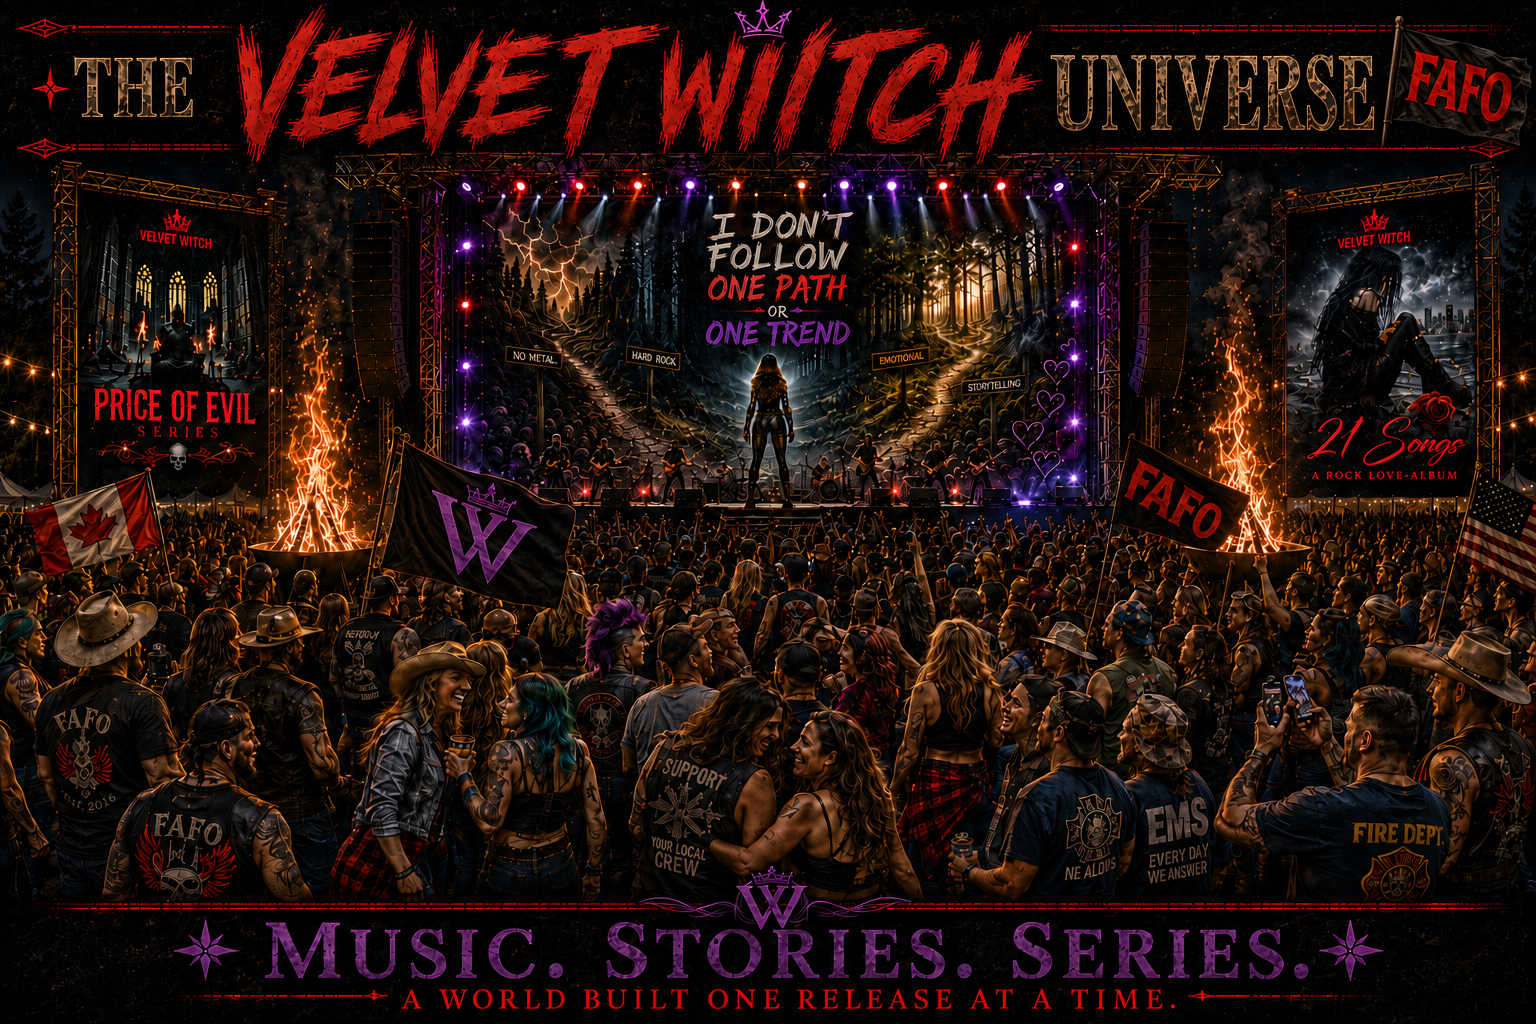
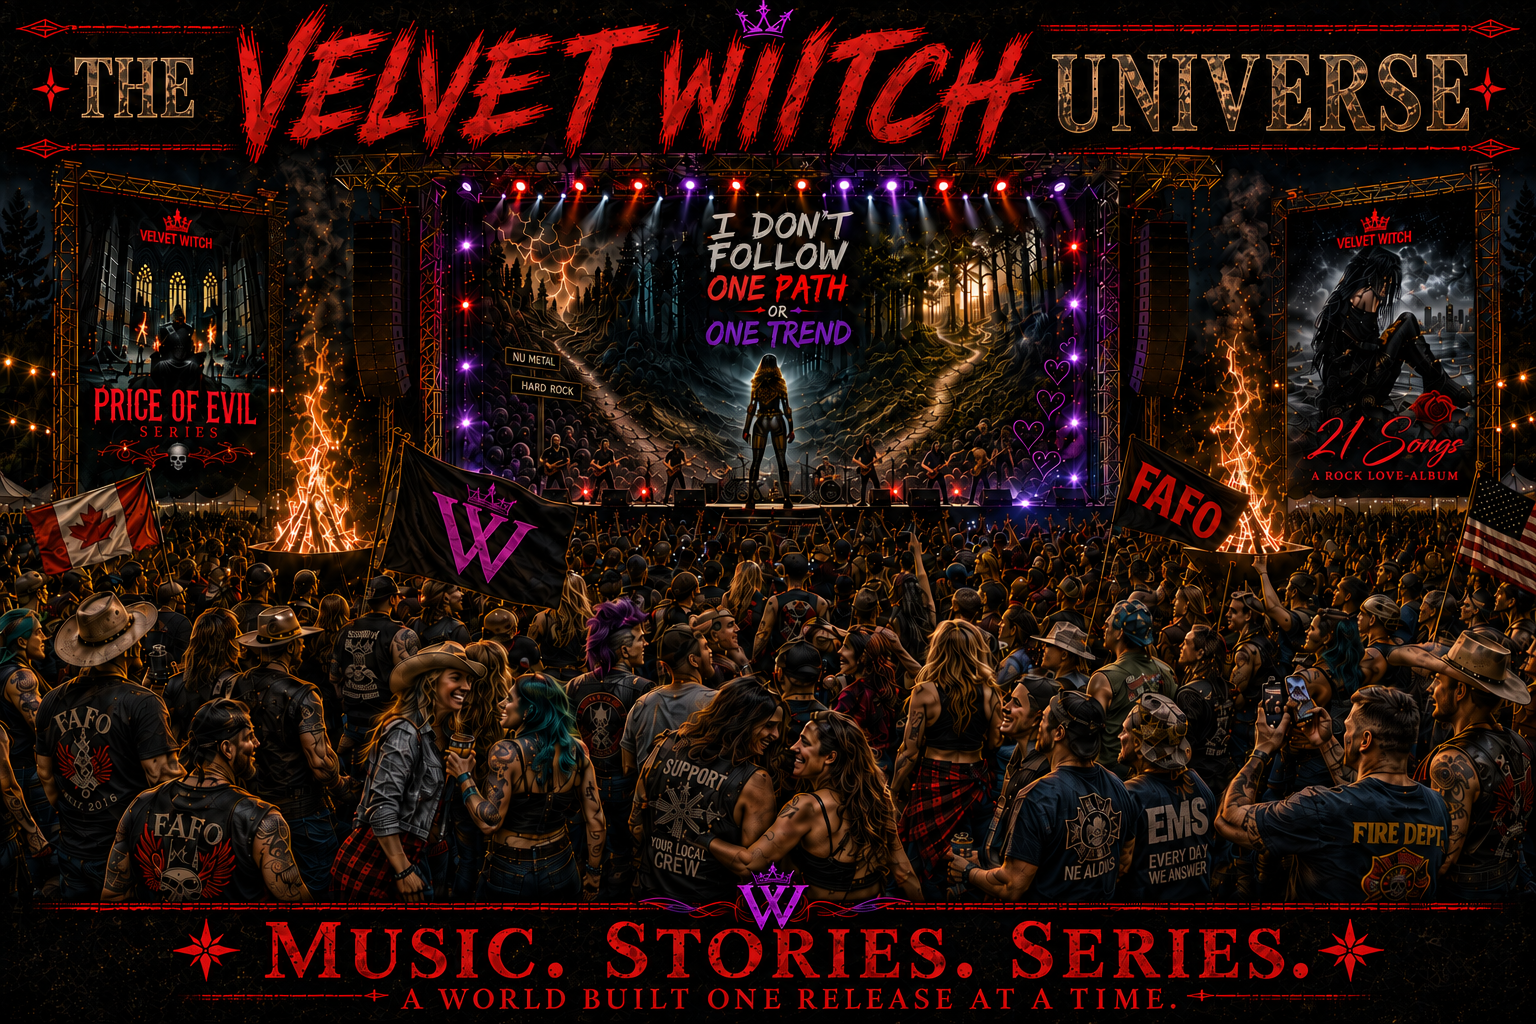
fix: correct Velvet Witch copy and colors

Changed region(s): [[0.0, 0.0, 1.0, 1.0], [0.0312, 0.0, 0.0625, 0.0312]]

diff --git a/app/media/featured-artist/page.tsx b/app/media/featured-artist/page.tsx
@@ -18,10 +18,10 @@ export default function FeaturedArtistPage() {
   const { destinations, artistStatement, projects, fafoConnection } = velvetWitchContent;
   const artwork = [bloodRush, wiresLoose, rockRange];
   return <main className="min-h-screen bg-[#090609] text-[#f8eef3]"><Header />
-    <section className="border-b border-[#b55a83]/30 bg-[#0e080d] px-5 py-8 sm:px-10 sm:py-12 lg:px-16" aria-labelledby="velvet-witch-title"><div className="mx-auto w-full max-w-7xl"><p className="mb-5 text-xs font-bold uppercase tracking-[0.34em] text-[#e691b2]">FAFO Nation featured artist</p><Artwork src={banner} alt="Velvet Witch Universe" priority /><div className="mt-8 grid gap-7 lg:grid-cols-[1.35fr_0.65fr] lg:items-end"><div><h1 id="velvet-witch-title" className="text-5xl font-black uppercase leading-[0.9] tracking-[-0.06em] text-white sm:text-7xl">The Velvet Witch <span className="text-[#e691b2]">Universe</span></h1><p className="mt-6 max-w-2xl text-lg leading-8 text-white/70 sm:text-xl">Music, stories, and a world built one release at a time—on her own terms.</p></div><div className="flex flex-wrap gap-3 lg:justify-end"><ExternalLink href={destinations.youtube}>Watch on YouTube</ExternalLink><ExternalLink href={destinations.spotify}>Listen on Spotify</ExternalLink></div></div></div></section>
-    <section className="px-5 py-16 sm:px-10 sm:py-24 lg:px-16" aria-labelledby="projects-heading"><div className="mx-auto w-full max-w-7xl"><p className="text-xs font-bold uppercase tracking-[0.28em] text-[#e691b2]">Listen into the story</p><h2 id="projects-heading" className="mt-4 text-4xl font-black uppercase tracking-[-0.04em] text-white sm:text-6xl">Projects become worlds.</h2><div className="mt-12 grid gap-8 lg:grid-cols-3">{projects.map((project, index) => <article key={project.title} className="flex flex-col border border-[#b55a83]/30 bg-[#160a14]"><Artwork src={artwork[index]} alt={`${project.title} by Velvet Witch`} /><div className="flex flex-1 flex-col p-7"><p className="text-[11px] font-bold uppercase tracking-[0.22em] text-[#e691b2]">{project.eyebrow}</p><h3 className="mt-5 text-2xl font-black uppercase text-white">{project.title}</h3><p className="mt-4 text-sm leading-7 text-white/65">{project.description}</p><div className="mt-auto pt-7"><ExternalLink href={project.href}>{project.linkLabel}</ExternalLink></div></div></article>)}</div></div></section>
-    <section className="border-y border-[#b55a83]/25 bg-[#160a14] px-5 py-16 sm:px-10 sm:py-24 lg:px-16" aria-labelledby="find-out-heading"><div className="mx-auto grid w-full max-w-7xl gap-10 lg:grid-cols-[0.8fr_1.2fr] lg:items-center"><Artwork src={findOut} alt="Find Out by Velvet Witch" /><div><p className="text-xs font-bold uppercase tracking-[0.28em] text-[#e691b2]">The FAFO connection</p><h2 id="find-out-heading" className="mt-4 text-4xl font-black uppercase tracking-[-0.04em] text-white sm:text-6xl">Find Out.</h2><p className="mt-6 text-lg leading-8 text-white/75">{fafoConnection}</p><div className="mt-8"><ExternalLink href="https://youtu.be/EJx1gqex2Uw?si=gsjI-B7oiAAybRcY">Watch Find Out</ExternalLink></div></div></div></section>
-    <section className="px-5 py-16 sm:px-10 sm:py-24 lg:px-16" aria-labelledby="artist-heading"><div className="mx-auto grid w-full max-w-7xl gap-10 lg:grid-cols-[0.7fr_1.3fr]"><div><p className="text-xs font-bold uppercase tracking-[0.28em] text-[#e691b2]">Artist / creative world</p><h2 id="artist-heading" className="mt-4 text-4xl font-black uppercase tracking-[-0.04em] text-white sm:text-6xl">Every word is hers.</h2></div><div className="space-y-6 text-base leading-8 text-white/70 sm:text-lg">{artistStatement.map((paragraph) => <p key={paragraph}>{paragraph}</p>)}</div></div></section>
-    <section className="border-y border-white/10 bg-[#0d080d] px-5 py-16 sm:px-10 sm:py-24 lg:px-16" aria-labelledby="support-heading"><div className="mx-auto grid w-full max-w-7xl gap-10 lg:grid-cols-2"><div><p className="text-xs font-bold uppercase tracking-[0.28em] text-[#e691b2]">Own / support the music</p><h2 id="support-heading" className="mt-4 text-4xl font-black uppercase tracking-[-0.04em] text-white sm:text-6xl">Take the story with you.</h2><p className="mt-5 max-w-xl text-base leading-8 text-white/65">Support the writing directly through official music downloads, or wear a piece of the universe through the live Velvet Witch store.</p></div><div className="flex flex-wrap content-center gap-3"><ExternalLink href={destinations.payhip}>Music downloads</ExternalLink><ExternalLink href={destinations.fourthwall}>Wear the universe</ExternalLink><ExternalLink href={destinations.youtube}>New releases</ExternalLink></div></div></section>
+    <section className="border-b border-[#b55a83]/30 bg-[#0e080d] px-5 py-8 sm:px-10 sm:py-12 lg:px-16" aria-labelledby="velvet-witch-title"><div className="mx-auto w-full max-w-7xl"><p className="mb-5 text-xs font-bold uppercase tracking-[0.34em] text-[#e691b2]">FAFO Nation featured artist</p><Artwork src={banner} alt="Velvet Witch Universe" priority /><div className="mt-8 grid gap-7 lg:grid-cols-[1.35fr_0.65fr] lg:items-end"><div><h1 id="velvet-witch-title" className="text-5xl font-black uppercase leading-[0.9] tracking-[-0.06em] text-white sm:text-7xl">The Velvet Witch <span className="text-[#e691b2]">Universe</span></h1><p className="mt-6 max-w-2xl text-lg leading-8 text-red-600 sm:text-xl">Music, Stories and a World built one release at a time—On her own terms.</p></div><div className="flex flex-wrap gap-3 lg:justify-end"><ExternalLink href={destinations.youtube}>Watch on YouTube</ExternalLink><ExternalLink href={destinations.spotify}>Listen on Spotify</ExternalLink></div></div></div></section>
+    <section className="px-5 py-16 sm:px-10 sm:py-24 lg:px-16" aria-labelledby="projects-heading"><div className="mx-auto w-full max-w-7xl"><p className="text-xs font-bold uppercase tracking-[0.28em] text-[#e691b2]">Listen into the story</p><h2 id="projects-heading" className="mt-4 text-4xl font-black uppercase tracking-[-0.04em] text-white sm:text-6xl">Projects become worlds.</h2><div className="mt-12 grid gap-8 lg:grid-cols-3">{projects.map((project, index) => <article key={project.title} className="flex flex-col border border-[#b55a83]/30 bg-[#160a14]"><Artwork src={artwork[index]} alt={`${project.title} by Velvet Witch`} /><div className="flex flex-1 flex-col p-7"><p className="text-[11px] font-bold uppercase tracking-[0.22em] text-[#e691b2]">{project.eyebrow}</p><h3 className="mt-5 text-2xl font-black uppercase text-[#D4AF37]">{project.title}</h3><p className="mt-4 text-sm leading-7 text-red-600">{project.description}</p><div className="mt-auto pt-7"><ExternalLink href={project.href}>{project.linkLabel}</ExternalLink></div></div></article>)}</div></div></section>
+    <section className="border-y border-[#b55a83]/25 bg-[#160a14] px-5 py-16 sm:px-10 sm:py-24 lg:px-16" aria-labelledby="find-out-heading"><div className="mx-auto grid w-full max-w-7xl gap-10 lg:grid-cols-[0.8fr_1.2fr] lg:items-center"><Artwork src={findOut} alt="Find Out by Velvet Witch" /><div><p className="text-xs font-bold uppercase tracking-[0.28em] text-[#e691b2]">The FAFO connection</p><h2 id="find-out-heading" className="mt-4 text-4xl font-black uppercase tracking-[-0.04em] text-[#D4AF37] sm:text-6xl">Find Out.</h2><p className="mt-6 text-lg leading-8 text-red-600">{fafoConnection}</p><div className="mt-8"><ExternalLink href="https://youtu.be/EJx1gqex2Uw?si=gsjI-B7oiAAybRcY">Watch Find Out</ExternalLink></div></div></div></section>
+    <section className="px-5 py-16 sm:px-10 sm:py-24 lg:px-16" aria-labelledby="artist-heading"><div className="mx-auto grid w-full max-w-7xl gap-10 lg:grid-cols-[0.7fr_1.3fr]"><div><p className="text-xs font-bold uppercase tracking-[0.28em] text-[#e691b2]">Artist / creative world</p><h2 id="artist-heading" className="mt-4 text-4xl font-black uppercase tracking-[-0.04em] text-[#D4AF37] sm:text-6xl">Every Word Is Hers</h2></div><div className="space-y-6 text-base leading-8 text-red-600 sm:text-lg">{artistStatement.map((paragraph) => <p key={paragraph}>{paragraph}</p>)}</div></div></section>
+    <section className="border-y border-white/10 bg-[#0d080d] px-5 py-16 sm:px-10 sm:py-24 lg:px-16" aria-labelledby="support-heading"><div className="mx-auto grid w-full max-w-7xl gap-10 lg:grid-cols-2"><div><p className="text-xs font-bold uppercase tracking-[0.28em] text-[#e691b2]">Own / support the music</p><h2 id="support-heading" className="mt-4 text-4xl font-black uppercase tracking-[-0.04em] text-[#D4AF37] sm:text-6xl">Take the Story With You</h2><p className="mt-5 max-w-xl text-base leading-8 text-red-600">Support the writing directly through official music downloads, or wear a piece of the universe through the live Velvet Witch store.</p></div><div className="flex flex-wrap content-center gap-3"><ExternalLink href={destinations.payhip}>Music downloads</ExternalLink><ExternalLink href={destinations.fourthwall}>Wear the universe</ExternalLink><ExternalLink href={destinations.youtube}>New releases</ExternalLink></div></div></section>
     <ContextualRightsFooter brand="Velvet Witch"><span>Presented within FAFO Nation.</span></ContextualRightsFooter></main>;
 }

diff --git a/app/media/featured-artist/_lib/velvetWitchContent.ts b/app/media/featured-artist/_lib/velvetWitchContent.ts
@@ -16,7 +16,7 @@ export const velvetWitchContent = {
   projects: [
     { title: "Blood Rush", eyebrow: "Featured release", description: "A release with no borrowed voice: direct, electric, and built from the inside out.", href: "https://youtu.be/p_X8d48nNAk?si=eSv2r-42d9eho4Ft", linkLabel: "Watch Blood Rush" },
     { title: "Wires Loose", eyebrow: "Album / project", description: "Follow the project as a full story—one chapter, one track, and one hard truth at a time.", href: "https://youtube.com/playlist?list=PLURDHZ2AF1ZqSQOcVdEMcr3wCC7Vx9CxC&si=dro-DFowVKY9Cwv0", linkLabel: "Play Wires Loose" },
-    { title: "The rock range", eyebrow: "More Velvet Witch", description: "The range is part of the point: hard edges, real stories, and no interest in being placed in one lane.", href: "https://www.youtube.com/@VelvetWitch37", linkLabel: "Explore on YouTube" },
+    { title: "I've Seen Worse", eyebrow: "More Velvet Witch", description: "The range is part of the point: hard edges, real stories, and no interest in being placed in one lane.", href: "https://www.youtube.com/@VelvetWitch37", linkLabel: "Explore on YouTube" },
   ] satisfies VelvetWitchProject[],
-  fafoConnection: "The attitude, the message, the refusal to bend, and the song that let us tour, it found, has now found its way into the opening music for the stream. From that one song to her music blaring across FAFO Nation and the world now. Let's fucking go.",
+  fafoConnection: "The Attitude The Message The Refusal to Bend and the FAFO Anthem that led us to Her. It has now found its way into the opening music for Mercs Streams & Shorts. From that one song to her music blaring across FAFO Nation and Now the World. Let's fucking go.",
 };
